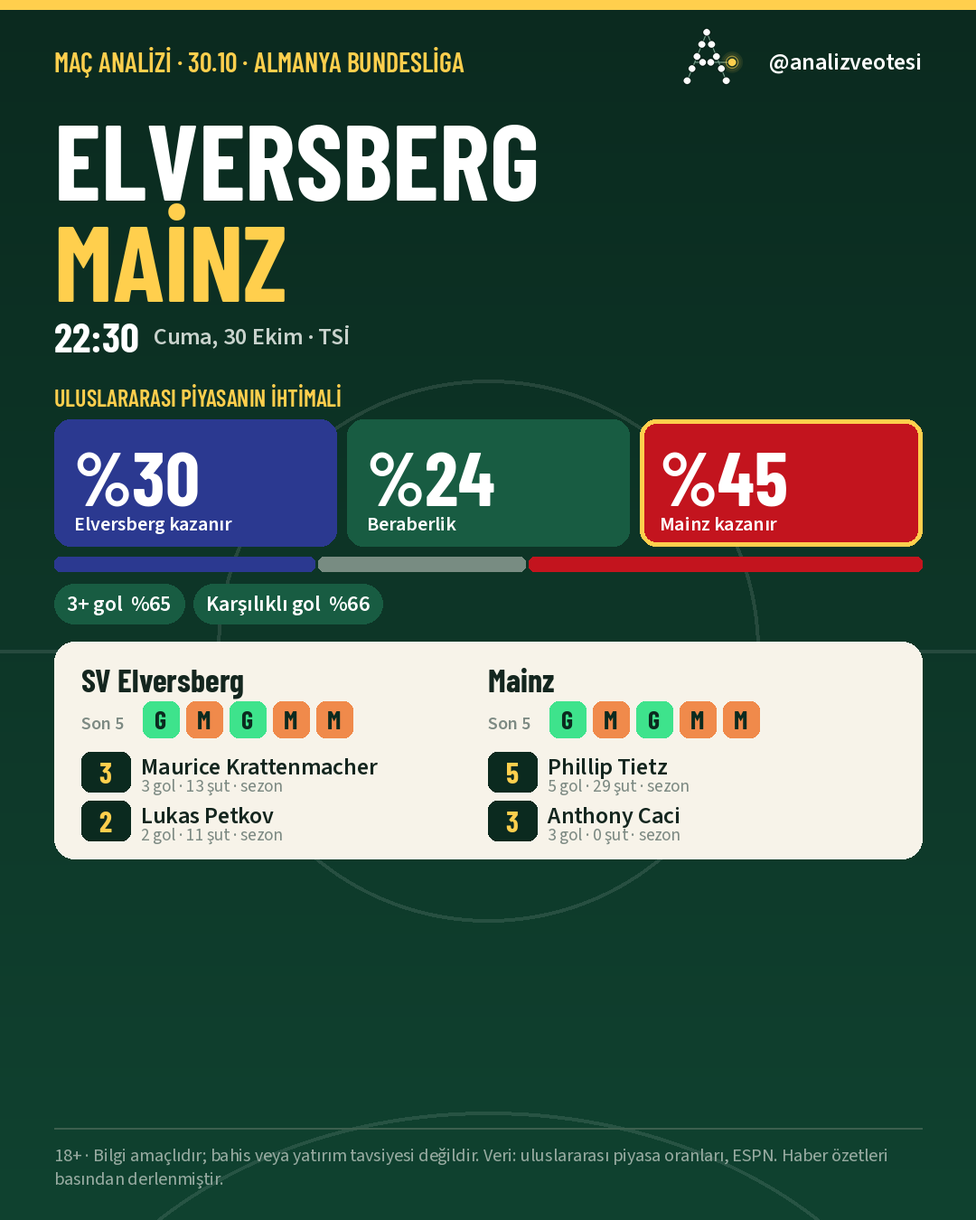
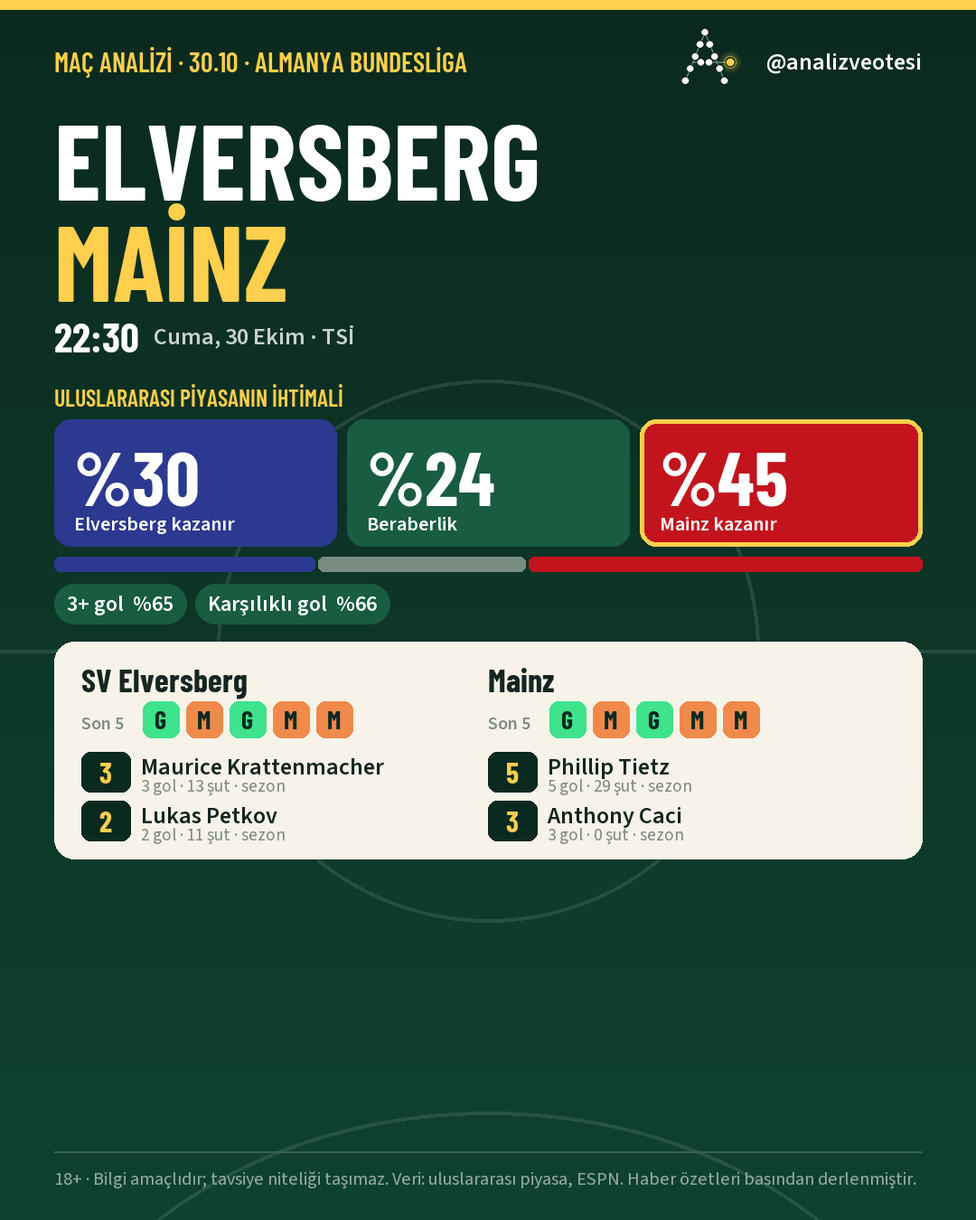
Yorum üslubu insansı (köşe yazarı sesi); açıklama ve kart notlarında "bahis" kelimesi yok

diff --git a/docs/index.html b/docs/index.html
@@ -215,11 +215,11 @@ footer{margin-top:56px;padding-top:18px;border-top:1px solid var(--line);color:v
 details.match summary{grid-template-columns:1fr auto}details.match summary time{grid-column:1/-1}.coupon{padding:16px 14px}.coupon .meta{text-align:left}.cl .probs{grid-template-columns:repeat(3,1fr)}}
 @media (prefers-reduced-motion:reduce){*{animation:none!important;transition:none!important}.verdict,.coupon,.cl .card{opacity:1;transform:none}.meter .bar{width:var(--w)}}
 </style></head><body><div class="wrap">
-<div class="topbar"><div class="brand">İddia Bot<small>Nesine oranı dünya piyasasından yüksek mi? · gölge test</small></div><div class="clock">30.10 02:17 TSİ</div></div>
+<div class="topbar"><div class="brand">İddia Bot<small>Nesine oranı dünya piyasasından yüksek mi? · gölge test</small></div><div class="clock">30.10 02:23 TSİ</div></div>
 
 <section class="board">
   <h1 class="verdict">Şu an oynanacak<br><em>fırsat yok.</em></h1>
-  <ul class="pills"><li><span class="pulse"></span>Nesine <b>0 dk önce</b> kontrol edildi</li><li>Dünya piyasası <b>3 saat önce</b> · gözcü açılınca tazelenir</li><li class="shadow">Gölge test · para oynanmıyor, her fırsat puanlanıyor</li></ul>
+  <ul class="pills"><li><span class="pulse"></span>Nesine <b>9 dk önce</b> kontrol edildi</li><li>Dünya piyasası <b>3 saat önce</b> · gözcü açılınca tazelenir</li><li class="shadow">Gölge test · para oynanmıyor, her fırsat puanlanıyor</li></ul>
   
 <ul class="facts">
   <li><div class="n">57</div><div class="l">yaklaşan maç takipte</div></li>
@@ -246,7 +246,7 @@ details.match summary{grid-template-columns:1fr auto}details.match summary time{
 <div class="empty"><b>Hiçbir maçta Nesine, dünya piyasasından yüksek oran vermiyor.</b> Bu normaldir; fırsat haber çıkıp dünya piyasası hareket ettiğinde, Nesine geç kaldığında doğar. En yakını <b>Barcelona – Alaves</b>, kg yok · en az bir takım gol atamaz: Nesine 1.70 veriyor, adil oran 1.76; yani hâlâ %3.2 geride.</div>
 <h3>Eşiğe en yakın bahisler</h3>
 <p class="lead">Çubuk ne kadar sağdaysa Nesine o kadar cömert; koyu çizgi +%3 eşiği. Çoğunun solda kalması Nesine'nin normal hâlidir.</p>
-<div class="card"><ul class="list"><li class="row "><div class="m"><div class="t">Barcelona – Alaves</div><div class="d">KG Yok · en az bir takım gol atamaz · Nesine <code>1.70</code> · adil <code>1.76</code></div></div><div class="meter near"><div class="bar" style="--w:65.9%"></div><div class="tick"></div></div><div class="v">-3.2%</div></li><li class="row "><div class="m"><div class="t">Bayern Münih – B. Dortmund</div><div class="d">MS X · beraberlik · Nesine <code>5.54</code> · adil <code>6.01</code></div></div><div class="meter "><div class="bar" style="--w:52.2%"></div><div class="tick"></div></div><div class="v">-7.8%</div></li><li class="row "><div class="m"><div class="t">Konyaspor – Galatasaray</div><div class="d">MS 1 · ev sahibi kazanır · Nesine <code>4.78</code> · adil <code>5.22</code></div></div><div class="meter "><div class="bar" style="--w:50.2%"></div><div class="tick"></div></div><div class="v">-8.4%</div></li><li class="row "><div class="m"><div class="t">Santander – Real Madrid</div><div class="d">KG Yok · en az bir takım gol atamaz · Nesine <code>2.20</code> · adil <code>2.43</code></div></div><div class="meter "><div class="bar" style="--w:47.5%"></div><div class="tick"></div></div><div class="v">-9.3%</div></li><li class="row "><div class="m"><div class="t">Levante – Atl Madrid</div><div class="d">MS 1 · ev sahibi kazanır · Nesine <code>4.70</code> · adil <code>5.21</code></div></div><div class="meter "><div class="bar" style="--w:46.3%"></div><div class="tick"></div></div><div class="v">-9.7%</div></li><li class="row "><div class="m"><div class="t">Lille – RC Lens</div><div class="d">2.5 Üst · 3 veya daha fazla gol · Nesine <code>1.59</code> · adil <code>1.77</code></div></div><div class="meter "><div class="bar" style="--w:45.7%"></div><div class="tick"></div></div><div class="v">-9.9%</div></li><li class="row "><div class="m"><div class="t">Schalke 04 – Leipzig</div><div class="d">MS X · beraberlik · Nesine <code>3.53</code> · adil <code>3.93</code></div></div><div class="meter "><div class="bar" style="--w:45.2%"></div><div class="tick"></div></div><div class="v">-10.1%</div></li><li class="row "><div class="m"><div class="t">Vallecano – Celta Vigo</div><div class="d">KG Yok · en az bir takım gol atamaz · Nesine <code>1.72</code> · adil <code>1.93</code></div></div><div class="meter "><div class="bar" style="--w:42.2%"></div><div class="tick"></div></div><div class="v">-11.1%</div></li><li class="row "><div class="m"><div class="t">Elche – Valencia</div><div class="d">KG Yok · en az bir takım gol atamaz · Nesine <code>1.85</code> · adil <code>2.09</code></div></div><div class="meter "><div class="bar" style="--w:41.6%"></div><div class="tick"></div></div><div class="v">-11.3%</div></li><li class="row "><div class="m"><div class="t">Juventus – Napoli</div><div class="d">KG Yok · en az bir takım gol atamaz · Nesine <code>1.84</code> · adil <code>2.07</code></div></div><div class="meter "><div class="bar" style="--w:41.5%"></div><div class="tick"></div></div><div class="v">-11.3%</div></li><li class="row "><div class="m"><div class="t">Trabzonspor – Gaziantep FK</div><div class="d">MS 1 · ev sahibi kazanır · Nesine <code>1.21</code> · adil <code>1.37</code></div></div><div class="meter "><div class="bar" style="--w:40.4%"></div><div class="tick"></div></div><div class="v">-11.7%</div></li><li class="row "><div class="m"><div class="t">Le Havre – PSG</div><div class="d">MS 2 · deplasman kazanır · Nesine <code>1.11</code> · adil <code>1.26</code></div></div><div class="meter "><div class="bar" style="--w:40.2%"></div><div class="tick"></div></div><div class="v">-11.8%</div></li></ul>
+<div class="card"><ul class="list"><li class="row "><div class="m"><div class="t">Barcelona – Alaves</div><div class="d">KG Yok · en az bir takım gol atamaz · Nesine <code>1.70</code> · adil <code>1.76</code></div></div><div class="meter near"><div class="bar" style="--w:65.9%"></div><div class="tick"></div></div><div class="v">-3.2%</div></li><li class="row "><div class="m"><div class="t">Bayern Münih – B. Dortmund</div><div class="d">MS X · beraberlik · Nesine <code>5.54</code> · adil <code>6.01</code></div></div><div class="meter "><div class="bar" style="--w:52.2%"></div><div class="tick"></div></div><div class="v">-7.8%</div></li><li class="row "><div class="m"><div class="t">Konyaspor – Galatasaray</div><div class="d">MS 1 · ev sahibi kazanır · Nesine <code>4.78</code> · adil <code>5.22</code></div></div><div class="meter "><div class="bar" style="--w:50.2%"></div><div class="tick"></div></div><div class="v">-8.4%</div></li><li class="row "><div class="m"><div class="t">Santander – Real Madrid</div><div class="d">KG Yok · en az bir takım gol atamaz · Nesine <code>2.20</code> · adil <code>2.43</code></div></div><div class="meter "><div class="bar" style="--w:47.5%"></div><div class="tick"></div></div><div class="v">-9.3%</div></li><li class="row "><div class="m"><div class="t">Levante – Atl Madrid</div><div class="d">MS 1 · ev sahibi kazanır · Nesine <code>4.70</code> · adil <code>5.21</code></div></div><div class="meter "><div class="bar" style="--w:46.3%"></div><div class="tick"></div></div><div class="v">-9.7%</div></li><li class="row "><div class="m"><div class="t">Lille – RC Lens</div><div class="d">2.5 Üst · 3 veya daha fazla gol · Nesine <code>1.59</code> · adil <code>1.77</code></div></div><div class="meter "><div class="bar" style="--w:45.7%"></div><div class="tick"></div></div><div class="v">-9.9%</div></li><li class="row "><div class="m"><div class="t">Schalke 04 – Leipzig</div><div class="d">MS X · beraberlik · Nesine <code>3.53</code> · adil <code>3.93</code></div></div><div class="meter "><div class="bar" style="--w:45.2%"></div><div class="tick"></div></div><div class="v">-10.1%</div></li><li class="row "><div class="m"><div class="t">Vallecano – Celta Vigo</div><div class="d">KG Yok · en az bir takım gol atamaz · Nesine <code>1.72</code> · adil <code>1.93</code></div></div><div class="meter "><div class="bar" style="--w:42.2%"></div><div class="tick"></div></div><div class="v">-11.1%</div></li><li class="row "><div class="m"><div class="t">Juventus – Napoli</div><div class="d">KG Yok · en az bir takım gol atamaz · Nesine <code>1.84</code> · adil <code>2.07</code></div></div><div class="meter "><div class="bar" style="--w:41.5%"></div><div class="tick"></div></div><div class="v">-11.3%</div></li><li class="row "><div class="m"><div class="t">Trabzonspor – Gaziantep FK</div><div class="d">MS 1 · ev sahibi kazanır · Nesine <code>1.21</code> · adil <code>1.37</code></div></div><div class="meter "><div class="bar" style="--w:40.4%"></div><div class="tick"></div></div><div class="v">-11.7%</div></li><li class="row "><div class="m"><div class="t">Le Havre – PSG</div><div class="d">MS 2 · deplasman kazanır · Nesine <code>1.11</code> · adil <code>1.26</code></div></div><div class="meter "><div class="bar" style="--w:40.2%"></div><div class="tick"></div></div><div class="v">-11.8%</div></li><li class="row "><div class="m"><div class="t">Elche – Valencia</div><div class="d">KG Yok · en az bir takım gol atamaz · Nesine <code>1.84</code> · adil <code>2.09</code></div></div><div class="meter "><div class="bar" style="--w:40.1%"></div><div class="tick"></div></div><div class="v">-11.8%</div></li></ul>
 <div class="legend"><span><i style="background:#A9B5AE"></i>geride</span><span><i style="background:var(--sodium)"></i>yaklaşıyor (−%5 içinde)</span><span><i style="background:var(--signal)"></i>eşiği geçti</span></div></div>
 </section>
 
@@ -485,7 +485,7 @@ details.match summary{grid-template-columns:1fr auto}details.match summary time{
 <p class="acc">İsabet geçmişi (5.200 maç): <b>piyasa</b> ±2 puan kalibre · <b>istatistik</b> piyasadan daha az isabetli, tek başına izlenirse geçmişte −12% · <b>Yapay zekâ</b> 1 maçta ölçüldü: isabet puanı 0.438, piyasa 0.266 (küçük iyi) — piyasa önde; 100 maçtan önce yorum yapmayın (✓ = piyasayla 5 puan içinde uyuşuyor).</p>
 </div></details>
 <details class="match"><summary><time>Cmt 31.10 20:30</time><div><div class="tm">Bayern Münih – B. Dortmund</div><div class="lg">Almanya Bundesliga</div></div><span class="tag">en iyisi -7.8%</span></summary>
-<div class="views"><table><tr><th>Bahis</th><th>Nesine</th><th>Piyasa</th><th>İstatistik</th><th>Yapay zekâ</th><th>Değer</th></tr><tr><td>MS 1 · ev sahibi kazanır</td><td>1.17</td><td>%72</td><td>%65</td><td class="dim">—</td><td class="">-15.9%</td></tr><tr><td>MS X · beraberlik</td><td>5.54</td><td>%17</td><td>%18</td><td class="dim">—</td><td class="">-7.8%</td></tr><tr><td>MS 2 · deplasman kazanır</td><td>6.46</td><td>%12</td><td>%17</td><td class="dim">—</td><td class="">-25.6%</td></tr><tr><td>2.5 Alt · 2 veya daha az gol</td><td>3.51</td><td>%23</td><td>%30</td><td class="dim">—</td><td class="">-18.9%</td></tr><tr><td>2.5 Üst · 3 veya daha fazla gol</td><td>1.11</td><td>%77</td><td>%70</td><td class="dim">—</td><td class="">-14.6%</td></tr><tr><td>KG Var · iki takım da gol atar</td><td>1.30</td><td>%65</td><td>%64</td><td class="dim">—</td><td class="">-15.3%</td></tr><tr><td>KG Yok · en az bir takım gol atamaz</td><td>2.38</td><td>%35</td><td>%36</td><td class="dim">—</td><td class="">-17.0%</td></tr></table>
+<div class="views"><table><tr><th>Bahis</th><th>Nesine</th><th>Piyasa</th><th>İstatistik</th><th>Yapay zekâ</th><th>Değer</th></tr><tr><td>MS 1 · ev sahibi kazanır</td><td>1.17</td><td>%72</td><td>%65</td><td class="dim">—</td><td class="">-15.9%</td></tr><tr><td>MS X · beraberlik</td><td>5.54</td><td>%17</td><td>%18</td><td class="dim">—</td><td class="">-7.8%</td></tr><tr><td>MS 2 · deplasman kazanır</td><td>6.52</td><td>%12</td><td>%17</td><td class="dim">—</td><td class="">-25.0%</td></tr><tr><td>2.5 Alt · 2 veya daha az gol</td><td>3.51</td><td>%23</td><td>%30</td><td class="dim">—</td><td class="">-18.9%</td></tr><tr><td>2.5 Üst · 3 veya daha fazla gol</td><td>1.11</td><td>%77</td><td>%70</td><td class="dim">—</td><td class="">-14.6%</td></tr><tr><td>KG Var · iki takım da gol atar</td><td>1.31</td><td>%65</td><td>%64</td><td class="dim">—</td><td class="">-14.7%</td></tr><tr><td>KG Yok · en az bir takım gol atamaz</td><td>2.37</td><td>%35</td><td>%36</td><td class="dim">—</td><td class="">-17.4%</td></tr></table>
 <p class="why"><b>Bayern Münih</b> son 10 maçta: 7 galibiyet, maç başı 3.4 gol attı / 1.0 yedi, KG %70, 3+ gol %80. <b>B. Dortmund</b> son 10 maçta: 7 galibiyet, maç başı 1.7 gol attı / 0.7 yedi, KG %30, 3+ gol %40.</p>
 <div class="abs espn"><div class="plabel"><b>Gol atması en olası</b> · sezon verisi (ESPN)</div><div class="chips"><details class="chip goal"><summary>⚽ Michael Olise <small>Bayern Munich · 6 gol</small></summary><div class="pop"><div><b>Sezon:</b> 7 maç, 6 gol, 3 asist</div><div><b>Maç başı gol:</b> 0.86</div><div><b>Toplam şut:</b> 30</div></div></details><details class="chip goal"><summary>⚽ Harry Kane <small>Bayern Munich · 4 gol</small></summary><div class="pop"><div><b>Sezon:</b> 7 maç, 4 gol, 5 asist</div><div><b>Maç başı gol:</b> 0.57</div><div><b>Toplam şut:</b> 31</div></div></details><details class="chip goal"><summary>⚽ Serhou Guirassy <small>Borussia Dortmund · 2 gol</small></summary><div class="pop"><div><b>Sezon:</b> 7 maç, 2 gol, 2 asist</div><div><b>Maç başı gol:</b> 0.29</div><div><b>Toplam şut:</b> 24</div></div></details><details class="chip goal"><summary>⚽ Maximilian Beier <small>Borussia Dortmund · 2 gol</small></summary><div class="pop"><div><b>Sezon:</b> 7 maç, 2 gol, 0 asist</div><div><b>Maç başı gol:</b> 0.29</div><div><b>Toplam şut:</b> 17</div></div></details></div><div class="plabel" style="margin-top:10px"><b>Son 5 maç</b> (G galibiyet · B beraberlik · M mağlubiyet, en eski → en yeni)</div><div class="l5"><b>Bayern Munich</b> <span class="r5 D">B</span> <span class="r5 W">G</span> <span class="r5 D">B</span> <span class="r5 W">G</span> <span class="r5 W">G</span> · <b>Borussia Dortmund</b> <span class="r5 L">M</span> <span class="r5 D">B</span> <span class="r5 W">G</span> <span class="r5 W">G</span> <span class="r5 W">G</span></div></div>
 <p class="acc">İsabet geçmişi (5.200 maç): <b>piyasa</b> ±2 puan kalibre · <b>istatistik</b> piyasadan daha az isabetli, tek başına izlenirse geçmişte −12% · <b>Yapay zekâ</b> 1 maçta ölçüldü: isabet puanı 0.438, piyasa 0.266 (küçük iyi) — piyasa önde; 100 maçtan önce yorum yapmayın (✓ = piyasayla 5 puan içinde uyuşuyor).</p>
@@ -554,8 +554,8 @@ details.match summary{grid-template-columns:1fr auto}details.match summary time{
 
 <section class="panel" id="p-hareket">
 <h2>İddaa oranları hareket ediyor mu?</h2>
-<p class="lead"><b>99 kontrolde 1433 oran değişimi</b> gördük (744 yükseliş, 689 düşüş). Oranlar hareket ediyor; sorumuz, dünya piyasasından ne kadar <b>geç</b> hareket ettiği. Yeşil ▲ oran yükseldi, turuncu ▼ düştü; "maça kalan" değişimin maçtan ne kadar önce olduğunu gösterir.</p>
-<div class="card"><ul class="changes"><li><time>30.10 02:17</time><div>Bayern Münih – B. Dortmund <small>· ms 2 · deplasman kazanır · maça 42 sa 12 dk kala</small></div><div class="o down">6.52 ▼ 6.46</div></li><li><time>30.10 02:17</time><div>Bayern Münih – B. Dortmund <small>· kg var · iki takım da gol atar · maça 42 sa 12 dk kala</small></div><div class="o down">1.31 ▼ 1.30</div></li><li><time>30.10 02:17</time><div>Bayern Münih – B. Dortmund <small>· kg yok · en az bir takım gol atamaz · maça 42 sa 12 dk kala</small></div><div class="o up">2.37 ▲ 2.38</div></li><li><time>30.10 02:17</time><div>Elche – Valencia <small>· kg var · iki takım da gol atar · maça 66 sa 12 dk kala</small></div><div class="o down">1.55 ▼ 1.54</div></li><li><time>30.10 02:17</time><div>Elche – Valencia <small>· kg yok · en az bir takım gol atamaz · maça 66 sa 12 dk kala</small></div><div class="o up">1.84 ▲ 1.85</div></li><li><time>30.10 02:17</time><div>Elche – Valencia <small>· 2.5 üst · 3 veya daha fazla gol · maça 66 sa 12 dk kala</small></div><div class="o down">1.73 ▼ 1.72</div></li><li><time>30.10 02:13</time><div>Elche – Valencia <small>· kg var · iki takım da gol atar · maça 66 sa 16 dk kala</small></div><div class="o up">1.54 ▲ 1.55</div></li><li><time>30.10 02:13</time><div>Elche – Valencia <small>· kg yok · en az bir takım gol atamaz · maça 66 sa 16 dk kala</small></div><div class="o down">1.85 ▼ 1.84</div></li><li><time>30.10 02:13</time><div>Elche – Valencia <small>· 2.5 üst · 3 veya daha fazla gol · maça 66 sa 16 dk kala</small></div><div class="o up">1.72 ▲ 1.73</div></li><li><time>30.10 02:12</time><div>Santander – Real Madrid <small>· ms 1 · ev sahibi kazanır · maça 64 sa 2 dk kala</small></div><div class="o down">9.54 ▼ 9.37</div></li><li><time>30.10 02:12</time><div>Santander – Real Madrid <small>· ms x · beraberlik · maça 64 sa 2 dk kala</small></div><div class="o down">6.97 ▼ 6.92</div></li><li><time>30.10 02:12</time><div>Santander – Real Madrid <small>· kg var · iki takım da gol atar · maça 64 sa 2 dk kala</small></div><div class="o down">1.37 ▼ 1.36</div></li><li><time>30.10 02:12</time><div>Santander – Real Madrid <small>· kg yok · en az bir takım gol atamaz · maça 64 sa 2 dk kala</small></div><div class="o up">2.19 ▲ 2.20</div></li><li><time>30.10 02:05</time><div>Bayern Münih – B. Dortmund <small>· ms 2 · deplasman kazanır · maça 42 sa 24 dk kala</small></div><div class="o up">6.46 ▲ 6.52</div></li><li><time>30.10 02:05</time><div>Bayern Münih – B. Dortmund <small>· kg var · iki takım da gol atar · maça 42 sa 24 dk kala</small></div><div class="o up">1.30 ▲ 1.31</div></li><li><time>30.10 02:05</time><div>Bayern Münih – B. Dortmund <small>· kg yok · en az bir takım gol atamaz · maça 42 sa 24 dk kala</small></div><div class="o down">2.38 ▼ 2.37</div></li><li><time>30.10 02:05</time><div>Santander – Real Madrid <small>· ms 1 · ev sahibi kazanır · maça 64 sa 9 dk kala</small></div><div class="o up">9.28 ▲ 9.54</div></li><li><time>30.10 02:05</time><div>Santander – Real Madrid <small>· ms x · beraberlik · maça 64 sa 9 dk kala</small></div><div class="o up">6.89 ▲ 6.97</div></li><li><time>30.10 02:05</time><div>Santander – Real Madrid <small>· kg var · iki takım da gol atar · maça 64 sa 9 dk kala</small></div><div class="o up">1.36 ▲ 1.37</div></li><li><time>30.10 02:05</time><div>Santander – Real Madrid <small>· kg yok · en az bir takım gol atamaz · maça 64 sa 9 dk kala</small></div><div class="o down">2.21 ▼ 2.19</div></li></ul></div>
+<p class="lead"><b>98 kontrolde 1427 oran değişimi</b> gördük (742 yükseliş, 685 düşüş). Oranlar hareket ediyor; sorumuz, dünya piyasasından ne kadar <b>geç</b> hareket ettiği. Yeşil ▲ oran yükseldi, turuncu ▼ düştü; "maça kalan" değişimin maçtan ne kadar önce olduğunu gösterir.</p>
+<div class="card"><ul class="changes"><li><time>30.10 02:13</time><div>Elche – Valencia <small>· kg var · iki takım da gol atar · maça 66 sa 16 dk kala</small></div><div class="o up">1.54 ▲ 1.55</div></li><li><time>30.10 02:13</time><div>Elche – Valencia <small>· kg yok · en az bir takım gol atamaz · maça 66 sa 16 dk kala</small></div><div class="o down">1.85 ▼ 1.84</div></li><li><time>30.10 02:13</time><div>Elche – Valencia <small>· 2.5 üst · 3 veya daha fazla gol · maça 66 sa 16 dk kala</small></div><div class="o up">1.72 ▲ 1.73</div></li><li><time>30.10 02:12</time><div>Santander – Real Madrid <small>· ms 1 · ev sahibi kazanır · maça 64 sa 2 dk kala</small></div><div class="o down">9.54 ▼ 9.37</div></li><li><time>30.10 02:12</time><div>Santander – Real Madrid <small>· ms x · beraberlik · maça 64 sa 2 dk kala</small></div><div class="o down">6.97 ▼ 6.92</div></li><li><time>30.10 02:12</time><div>Santander – Real Madrid <small>· kg var · iki takım da gol atar · maça 64 sa 2 dk kala</small></div><div class="o down">1.37 ▼ 1.36</div></li><li><time>30.10 02:12</time><div>Santander – Real Madrid <small>· kg yok · en az bir takım gol atamaz · maça 64 sa 2 dk kala</small></div><div class="o up">2.19 ▲ 2.20</div></li><li><time>30.10 02:05</time><div>Bayern Münih – B. Dortmund <small>· ms 2 · deplasman kazanır · maça 42 sa 24 dk kala</small></div><div class="o up">6.46 ▲ 6.52</div></li><li><time>30.10 02:05</time><div>Bayern Münih – B. Dortmund <small>· kg var · iki takım da gol atar · maça 42 sa 24 dk kala</small></div><div class="o up">1.30 ▲ 1.31</div></li><li><time>30.10 02:05</time><div>Bayern Münih – B. Dortmund <small>· kg yok · en az bir takım gol atamaz · maça 42 sa 24 dk kala</small></div><div class="o down">2.38 ▼ 2.37</div></li><li><time>30.10 02:05</time><div>Santander – Real Madrid <small>· ms 1 · ev sahibi kazanır · maça 64 sa 9 dk kala</small></div><div class="o up">9.28 ▲ 9.54</div></li><li><time>30.10 02:05</time><div>Santander – Real Madrid <small>· ms x · beraberlik · maça 64 sa 9 dk kala</small></div><div class="o up">6.89 ▲ 6.97</div></li><li><time>30.10 02:05</time><div>Santander – Real Madrid <small>· kg var · iki takım da gol atar · maça 64 sa 9 dk kala</small></div><div class="o up">1.36 ▲ 1.37</div></li><li><time>30.10 02:05</time><div>Santander – Real Madrid <small>· kg yok · en az bir takım gol atamaz · maça 64 sa 9 dk kala</small></div><div class="o down">2.21 ▼ 2.19</div></li><li><time>30.10 02:04</time><div>Le Havre – PSG <small>· ms 1 · ev sahibi kazanır · maça 18 sa 55 dk kala</small></div><div class="o up">8.25 ▲ 8.65</div></li><li><time>30.10 02:04</time><div>Le Havre – PSG <small>· ms x · beraberlik · maça 18 sa 55 dk kala</small></div><div class="o up">5.82 ▲ 5.95</div></li><li><time>30.10 02:04</time><div>Le Havre – PSG <small>· ms 2 · deplasman kazanır · maça 18 sa 55 dk kala</small></div><div class="o down">1.12 ▼ 1.11</div></li><li><time>30.10 02:04</time><div>Le Havre – PSG <small>· kg var · iki takım da gol atar · maça 18 sa 55 dk kala</small></div><div class="o up">1.51 ▲ 1.54</div></li><li><time>30.10 02:04</time><div>Le Havre – PSG <small>· kg yok · en az bir takım gol atamaz · maça 18 sa 55 dk kala</small></div><div class="o down">1.90 ▼ 1.87</div></li><li><time>30.10 02:04</time><div>Lille – RC Lens <small>· kg var · iki takım da gol atar · maça 21 sa 0 dk kala</small></div><div class="o up">1.46 ▲ 1.47</div></li></ul></div>
 </section>
 
 <section class="panel" id="p-paylasim">
@@ -569,51 +569,51 @@ details.match summary{grid-template-columns:1fr auto}details.match summary time{
 
 Eksikler: Abdülkerim Bardakcı (cezalı), Kaan Ayhan (sakat), Barış Alper Yılmaz (şüpheli), Victor Osimhen (şüpheli)
 
-Dünya bahis borsası: Konyaspor %19 · beraberlik %22 · Galatasaray %59
+Uluslararası piyasanın ihtimali: Konyaspor %19 · beraberlik %22 · Galatasaray %59
 
 En büyük belirsizlik: Osimhen&#x27;in maç günü ayrı seyahat edip gerçekten ilk 11&#x27;de başlayıp başlamayacağı ve Avrupa-derbi yorgunluğuyla Buruk&#x27;un ne ölçüde rotasyona gideceği en büyük belirsizlik.
 
-18+ · Bilgi amaçlıdır; bahis veya yatırım tavsiyesi değildir.
+18+ · Bilgi amaçlıdır; tavsiye niteliği taşımaz.
 
 #Konyaspor #Galatasaray #KONvGS #SüperLig #TrendyolSüperLig #futbol #maçanalizi #sakatlık #kadro</textarea><button type="button" class="copy">Açıklamayı kopyala</button></div></div><div class="post"><div class="post-h"><b>Paket #2 · Le Havre – PSG</b><span class="when">Cum 30.10 21:00 · Fransa Ligue 1</span></div>
 <div class="tiles small"><a class="tile" href="social/2026-10-30/match_3252325.png" download><img src="social/2026-10-30/match_3252325.png" alt="" loading="lazy"><span>1 · maç kartı</span></a></div>
 <div class="cap"><textarea readonly rows="7">Le Havre – PSG | Cuma, 30 Ekim, 21:00 | Fransa Ligue 1
 
-Dünya bahis borsası: Le Havre %8 · beraberlik %12 · PSG %80
+Uluslararası piyasanın ihtimali: Le Havre %8 · beraberlik %12 · PSG %80
 
-18+ · Bilgi amaçlıdır; bahis veya yatırım tavsiyesi değildir.
+18+ · Bilgi amaçlıdır; tavsiye niteliği taşımaz.
 
 #LeHavre #PSG #HACvPSG #Ligue1 #futbol #maçanalizi #sakatlık #kadro</textarea><button type="button" class="copy">Açıklamayı kopyala</button></div></div><div class="post"><div class="post-h"><b>Paket #3 · Nice – Rennes</b><span class="when">Cum 30.10 21:00 · Fransa Ligue 1</span></div>
 <div class="tiles small"><a class="tile" href="social/2026-10-30/match_3254474.png" download><img src="social/2026-10-30/match_3254474.png" alt="" loading="lazy"><span>1 · maç kartı</span></a></div>
 <div class="cap"><textarea readonly rows="7">Nice – Rennes | Cuma, 30 Ekim, 21:00 | Fransa Ligue 1
 
-Dünya bahis borsası: Nice %35 · beraberlik %25 · Rennes %40
+Uluslararası piyasanın ihtimali: Nice %35 · beraberlik %25 · Rennes %40
 
-18+ · Bilgi amaçlıdır; bahis veya yatırım tavsiyesi değildir.
+18+ · Bilgi amaçlıdır; tavsiye niteliği taşımaz.
 
 #Nice #Rennes #OGCvSRFC #Ligue1 #futbol #maçanalizi #sakatlık #kadro</textarea><button type="button" class="copy">Açıklamayı kopyala</button></div></div><div class="post"><div class="post-h"><b>Paket #4 · Elversberg – Mainz</b><span class="when">Cum 30.10 22:30 · Almanya Bundesliga</span></div>
 <div class="tiles small"><a class="tile" href="social/2026-10-30/match_3253900.png" download><img src="social/2026-10-30/match_3253900.png" alt="" loading="lazy"><span>1 · maç kartı</span></a></div>
 <div class="cap"><textarea readonly rows="7">Elversberg – Mainz | Cuma, 30 Ekim, 22:30 | Almanya Bundesliga
 
-Dünya bahis borsası: Elversberg %30 · beraberlik %24 · Mainz %45
+Uluslararası piyasanın ihtimali: Elversberg %30 · beraberlik %24 · Mainz %45
 
-18+ · Bilgi amaçlıdır; bahis veya yatırım tavsiyesi değildir.
+18+ · Bilgi amaçlıdır; tavsiye niteliği taşımaz.
 
 #Elversberg #Mainz #ELVvM05 #Bundesliga #futbol #maçanalizi #sakatlık #kadro</textarea><button type="button" class="copy">Açıklamayı kopyala</button></div></div><div class="post"><div class="post-h"><b>Paket #5 · Villarreal – Espanyol</b><span class="when">Cum 30.10 23:00 · İspanya La Liga</span></div>
 <div class="tiles small"><a class="tile" href="social/2026-10-30/match_3258486.png" download><img src="social/2026-10-30/match_3258486.png" alt="" loading="lazy"><span>1 · maç kartı</span></a></div>
 <div class="cap"><textarea readonly rows="7">Villarreal – Espanyol | Cuma, 30 Ekim, 23:00 | İspanya La Liga
 
-Dünya bahis borsası: Villarreal %69 · beraberlik %18 · Espanyol %13
+Uluslararası piyasanın ihtimali: Villarreal %69 · beraberlik %18 · Espanyol %13
 
-18+ · Bilgi amaçlıdır; bahis veya yatırım tavsiyesi değildir.
+18+ · Bilgi amaçlıdır; tavsiye niteliği taşımaz.
 
 #Villarreal #Espanyol #VILvESP #LaLiga #futbol #maçanalizi #sakatlık #kadro</textarea><button type="button" class="copy">Açıklamayı kopyala</button></div></div><div class="post"><div class="post-h"><b>Paket #6 · Lille – RC Lens</b><span class="when">Cum 30.10 23:05 · Fransa Ligue 1</span></div>
 <div class="tiles small"><a class="tile" href="social/2026-10-30/match_3253790.png" download><img src="social/2026-10-30/match_3253790.png" alt="" loading="lazy"><span>1 · maç kartı</span></a></div>
 <div class="cap"><textarea readonly rows="7">Lille – RC Lens | Cuma, 30 Ekim, 23:05 | Fransa Ligue 1
 
-Dünya bahis borsası: Lille %37 · beraberlik %27 · RC Lens %36
+Uluslararası piyasanın ihtimali: Lille %37 · beraberlik %27 · RC Lens %36
 
-18+ · Bilgi amaçlıdır; bahis veya yatırım tavsiyesi değildir.
+18+ · Bilgi amaçlıdır; tavsiye niteliği taşımaz.
 
 #Lille #RCLens #LILvRCL #Ligue1 #futbol #maçanalizi #sakatlık #kadro</textarea><button type="button" class="copy">Açıklamayı kopyala</button></div></div><div class="post"><div class="post-h"><b>Paket #7 · Günün eksikleri</b><span class="when">2026-10-30</span></div>
 <div class="tiles small"><a class="tile" href="social/2026-10-30/injuries.png" download><img src="social/2026-10-30/injuries.png" alt="" loading="lazy"><span>sakatlık bülteni</span></a></div>
@@ -621,7 +621,7 @@ Dünya bahis borsası: Lille %37 · beraberlik %27 · RC Lens %36
 
 Sakat, cezalı ve şüpheli oyuncular tek kartta; haberlere göre derlendi.
 
-18+ · Bilgi amaçlıdır; bahis veya yatırım tavsiyesi değildir.
+18+ · Bilgi amaçlıdır; tavsiye niteliği taşımaz.
 
 #futbol #maçanalizi #sakatlık #kadro</textarea><button type="button" class="copy">Açıklamayı kopyala</button></div></div>
 </template>

diff --git a/claude_check.py b/claude_check.py
@@ -20,22 +20,25 @@ MAX_PER_DAY = int(os.environ.get("CLAUDE_MAX_PER_DAY", "3"))
 MAX_FORCE_PER_DAY = int(os.environ.get("CLAUDE_MAX_FORCE_PER_DAY", "6"))   # fırsat uyarılı maçlar için ayrı tavan
 OUT_DIR = "records/claude"
 
-SYSTEM = """Sen 20 yıllık profesyonel bir futbol analistisin: kulüplere ve yayıncılara maç önü raporu yazan türden.
-Üslubun: kendinden emin ama kanıta bağlı; genelleme yok, klişe yok ("iki takım da kazanmak isteyecek" gibi boş cümle yazma).
-Her iddianın arkasında bir gerçek olsun: kadro/sakatlık/ceza, son maçlardaki form ve gol üretimi, taktik eşleşme (pres, geçiş,
-kanat/orta, duran top), fikstür yoğunluğu ve motivasyon (küme hattı, tur durumu, derbi), saha/hava/seyahat.
+SYSTEM = """Sen yılların futbol yazarısın; maç önü yazılarını okurlar "sanki yanımda anlatıyor" diye sever. Kulüplerin iç dinamiğini,
+teknik direktörlerin huylarını, hangi eksiğin gerçekten acıttığını bilirsin.
+
 Görev: Verilen maç için GÜNCEL haberleri araştır (sakatlık, ceza, açıklanan kadro, teknik direktör değişikliği, motivasyon, hava),
 sonra bahis oranı GÖRMEDEN kendi olasılık tahminini ver.
-Arama disiplini: en fazla 4-5 arama yap; her aramanın sonucunu okuyup değerlendirmeden yeni arama başlatma. Önce iki takımın
-son maç haberlerini ve 'probabili formazioni / predicted lineup / sakat-cezalı' sorgularını dene; bulunan haberin tarihine dikkat et.
-Yorum biçimi: önce maçın anahtarı (tek cümle), sonra iki takımın durumu, sonra beklenen senaryo. 3-5 cümle, Türkçe, net; bir
-spor gazetesinin analiz köşesi gibi okunmalı ama teknik olmayan biri de anlamalı.
-Olasılıklar toplamı her market için 1.0 olmalı. Somut bilgi bulamadığın yerde bunu söyle ve mütevazı, lig ortalamasına yakın kal;
-bulduğun bilginin tarihi eskiyse (bir haftadan öncesi) güvenini düşür.
-Oran, Pinnacle, Nesine, "value" veya bahis tavsiyesi hakkında yazma; sadece maç analizi ve ihtimaller.
-JSON'daki comment alanı her zaman dolu olmalı (3-5 cümle); facts bulunamadıysa comment yine yazılır.
-absences listesi: haberlerde adı geçen her eksik/şüpheli/dönen oyuncu için takımdaki yeri (as/rotasyon/yedek), son maçlardaki durumu
-ve bu maça somut etkisi (yerine kim oynar, hangi bölge zayıflar). Emin olmadığın yeri 'bilinmiyor' yaz, uydurma."""
+Arama disiplini: en fazla 4-5 arama; her aramanın sonucunu okuyup değerlendirmeden yeni arama başlatma. Haberin tarihine dikkat et;
+bir haftadan eskiyse güvenini düşür.
+
+Yorum (comment) nasıl olmalı:
+- Bir insan gibi yaz: doğal, akıcı Türkçe; kısa ve uzun cümleler karışık; gerektiğinde "açıkçası", "bana kalırsa", "işin tuhafı" gibi
+  bir yazarın sesi duyulsun. Kalıp açılış kullanma ("Maçın anahtarı…", "Bu maçta…" ile başlama); her yazı farklı bir yerden girsin —
+  bir oyuncudan, bir sayıdan, son maçtaki bir andan, bir çelişkiden.
+- Somut ol: isimler, sayılar, son maçlardan anlar. Klişe yok ("iki takım da kazanmak isteyecek" yazma), boş genelleme yok.
+- Bir görüşün olsun ve onu söyle; ama neye dayandığını da söyle. Emin olmadığın yerde bunu dürüstçe belirt.
+- 4-6 cümle. Oran, Pinnacle, Nesine, "value", bahis tavsiyesi yazma; sadece maç.
+risk: tek cümle, insan ağzından ("Beni en çok düşündüren…"). absences: haberlerde geçen her eksik/şüpheli/dönen oyuncu için
+takımdaki yeri (as/rotasyon/yedek), son maçlardaki durumu ve bu maça somut etkisi (yerine kim oynar, hangi bölge zayıflar);
+emin olmadığın yere 'bilinmiyor' yaz, uydurma. lineup_note: muhtemel 11 / diziliş, 1-2 cümle; bilgi yoksa boş.
+Olasılıklar toplamı her market için 1.0 olmalı; somut bilgi yoksa mütevazı, lig ortalamasına yakın kal. comment asla boş olmasın."""
 
 BLIND_SCHEMA = {
     "type": "object",
@@ -43,8 +46,8 @@ BLIND_SCHEMA = {
         "p_home": {"type": "number"}, "p_draw": {"type": "number"}, "p_away": {"type": "number"},
         "p_over25": {"type": "number"}, "p_btts": {"type": "number"},
         "facts": {"type": "array", "items": {"type": "string"}, "description": "Bulunan somut haberler, en fazla 5, her biri tek cümle, kaynak adıyla"},
-        "comment": {"type": "string", "description": "ZORUNLU, asla boş bırakma: 3-5 cümle, profesyonel analist üslubunda Türkçe maç önü yorumu — anahtar faktör, iki takımın durumu, beklenen senaryo. Haber bulunamadıysa da genel değerlendirme yaz."},
-        "risk": {"type": "string", "description": "Tek cümle: bu maçta bahis açısından en büyük belirsizlik"},
+        "comment": {"type": "string", "description": "ZORUNLU, asla boş bırakma: 4-6 cümle, bir futbol yazarının doğal sesiyle Türkçe maç önü yazısı; kalıp açılış yok, somut isim/sayı/an; görüş + dayanağı. Haber bulunamadıysa da yaz."},
+        "risk": {"type": "string", "description": "Tek cümle, insan ağzından: bu maçta sonucu en çok belirsizleştiren şey"},
         "confidence": {"type": "string", "enum": ["düşük", "orta", "yüksek"]},
         "absences": {"type": "array", "description": "Haberlerde geçen eksik/şüpheli oyuncular (en fazla 10). Bilgi yoksa boş liste.",
                      "items": {"type": "object", "properties": {

diff --git a/instagram.py b/instagram.py
@@ -45,7 +45,7 @@ def hashtags_for(m):
     pair = f"#{ha}v{aa}".translate(tr)
     tags = [tag_name(m["home"]), tag_name(m["away"]), pair, LEAGUE_TAGS.get(m.get("sport_key"), ""), HASHTAGS]
     return " ".join(t for t in tags if t)
-NOTE = "18+ · Bilgi amaçlıdır; bahis veya yatırım tavsiyesi değildir."
+NOTE = "18+ · Bilgi amaçlıdır; tavsiye niteliği taşımaz."
 
 
 def _post(path, params):
@@ -104,7 +104,7 @@ def caption_for(m, ai, pm):
     if abs_:
         parts.append("Eksikler: " + ", ".join(abs_))
     if pm and "MS" in pm:
-        parts.append(f"Dünya bahis borsası: {m['home']} %{pm['MS']['1']*100:.0f} · beraberlik %{pm['MS']['X']*100:.0f} · {m['away']} %{pm['MS']['2']*100:.0f}")
+        parts.append(f"Uluslararası piyasanın ihtimali: {m['home']} %{pm['MS']['1']*100:.0f} · beraberlik %{pm['MS']['X']*100:.0f} · {m['away']} %{pm['MS']['2']*100:.0f}")
     if bl.get("risk"):
         parts.append("En büyük belirsizlik: " + bl["risk"])
     parts.append(NOTE); parts.append(hashtags_for(m))

diff --git a/social.py b/social.py
@@ -33,7 +33,7 @@ def tr_date(dt):
     """'Cuma, 30 Ekim' biçimi (TSİ)."""
     dt = dt.astimezone(TR)
     return f"{DAYS_TR[dt.weekday()]}, {dt.day} {MONTHS_TR[dt.month]}"
-DISCLAIMER = "18+ · Bilgi amaçlıdır; bahis veya yatırım tavsiyesi değildir. Veri: uluslararası piyasa oranları, ESPN. Haber özetleri basından derlenmiştir."
+DISCLAIMER = "18+ · Bilgi amaçlıdır; tavsiye niteliği taşımaz. Veri: uluslararası piyasa, ESPN. Haber özetleri basından derlenmiştir."
 
 
 # ----------------------------------------------------------------- araçlar
